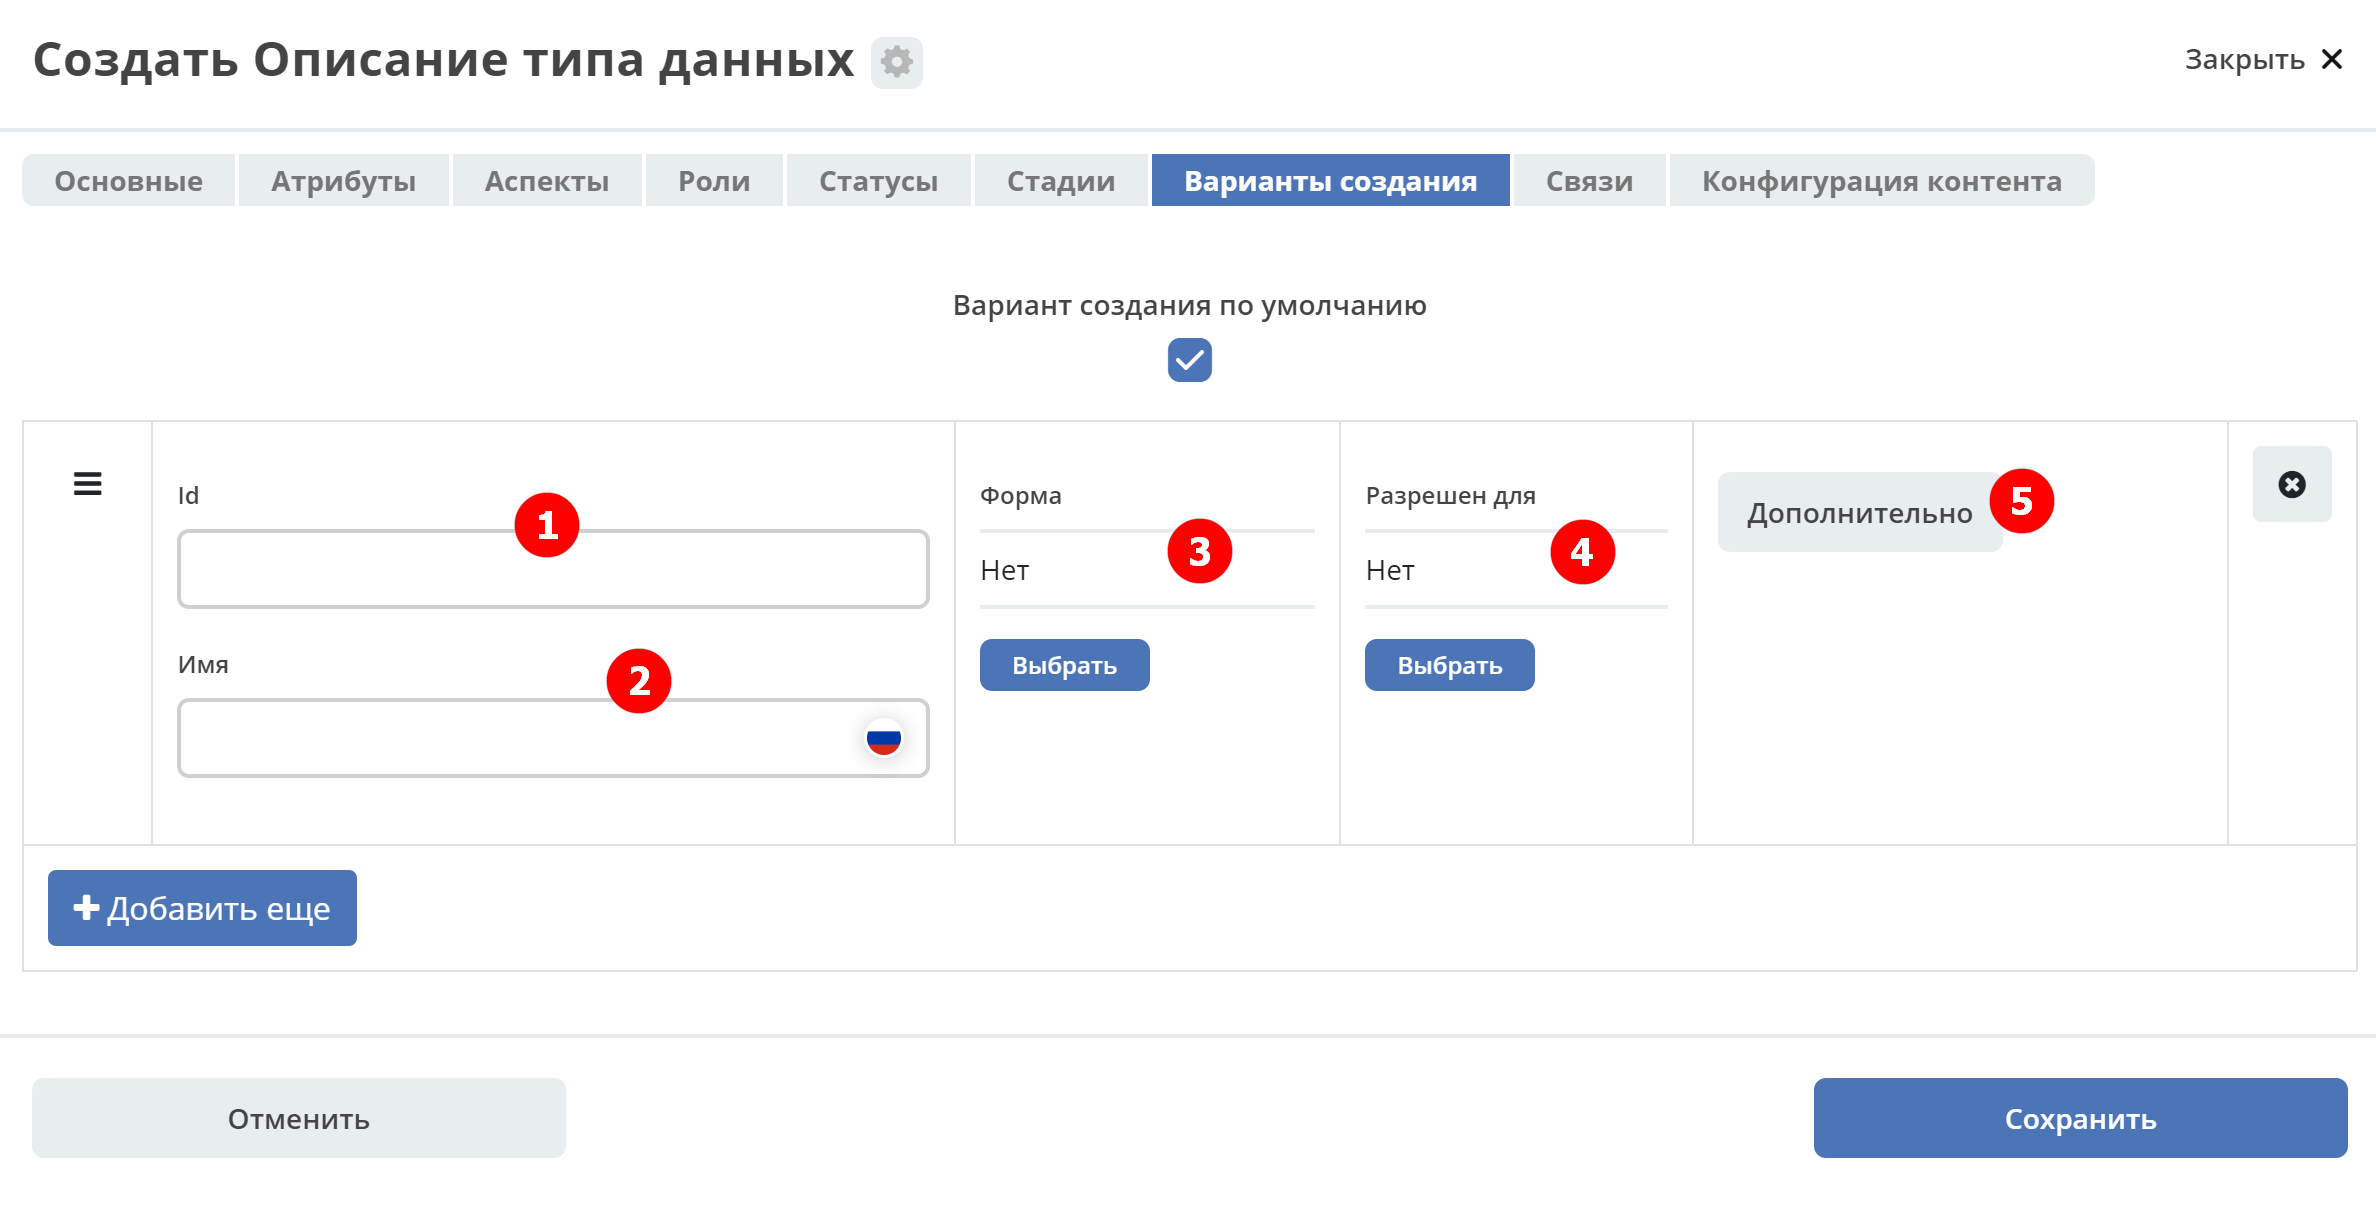
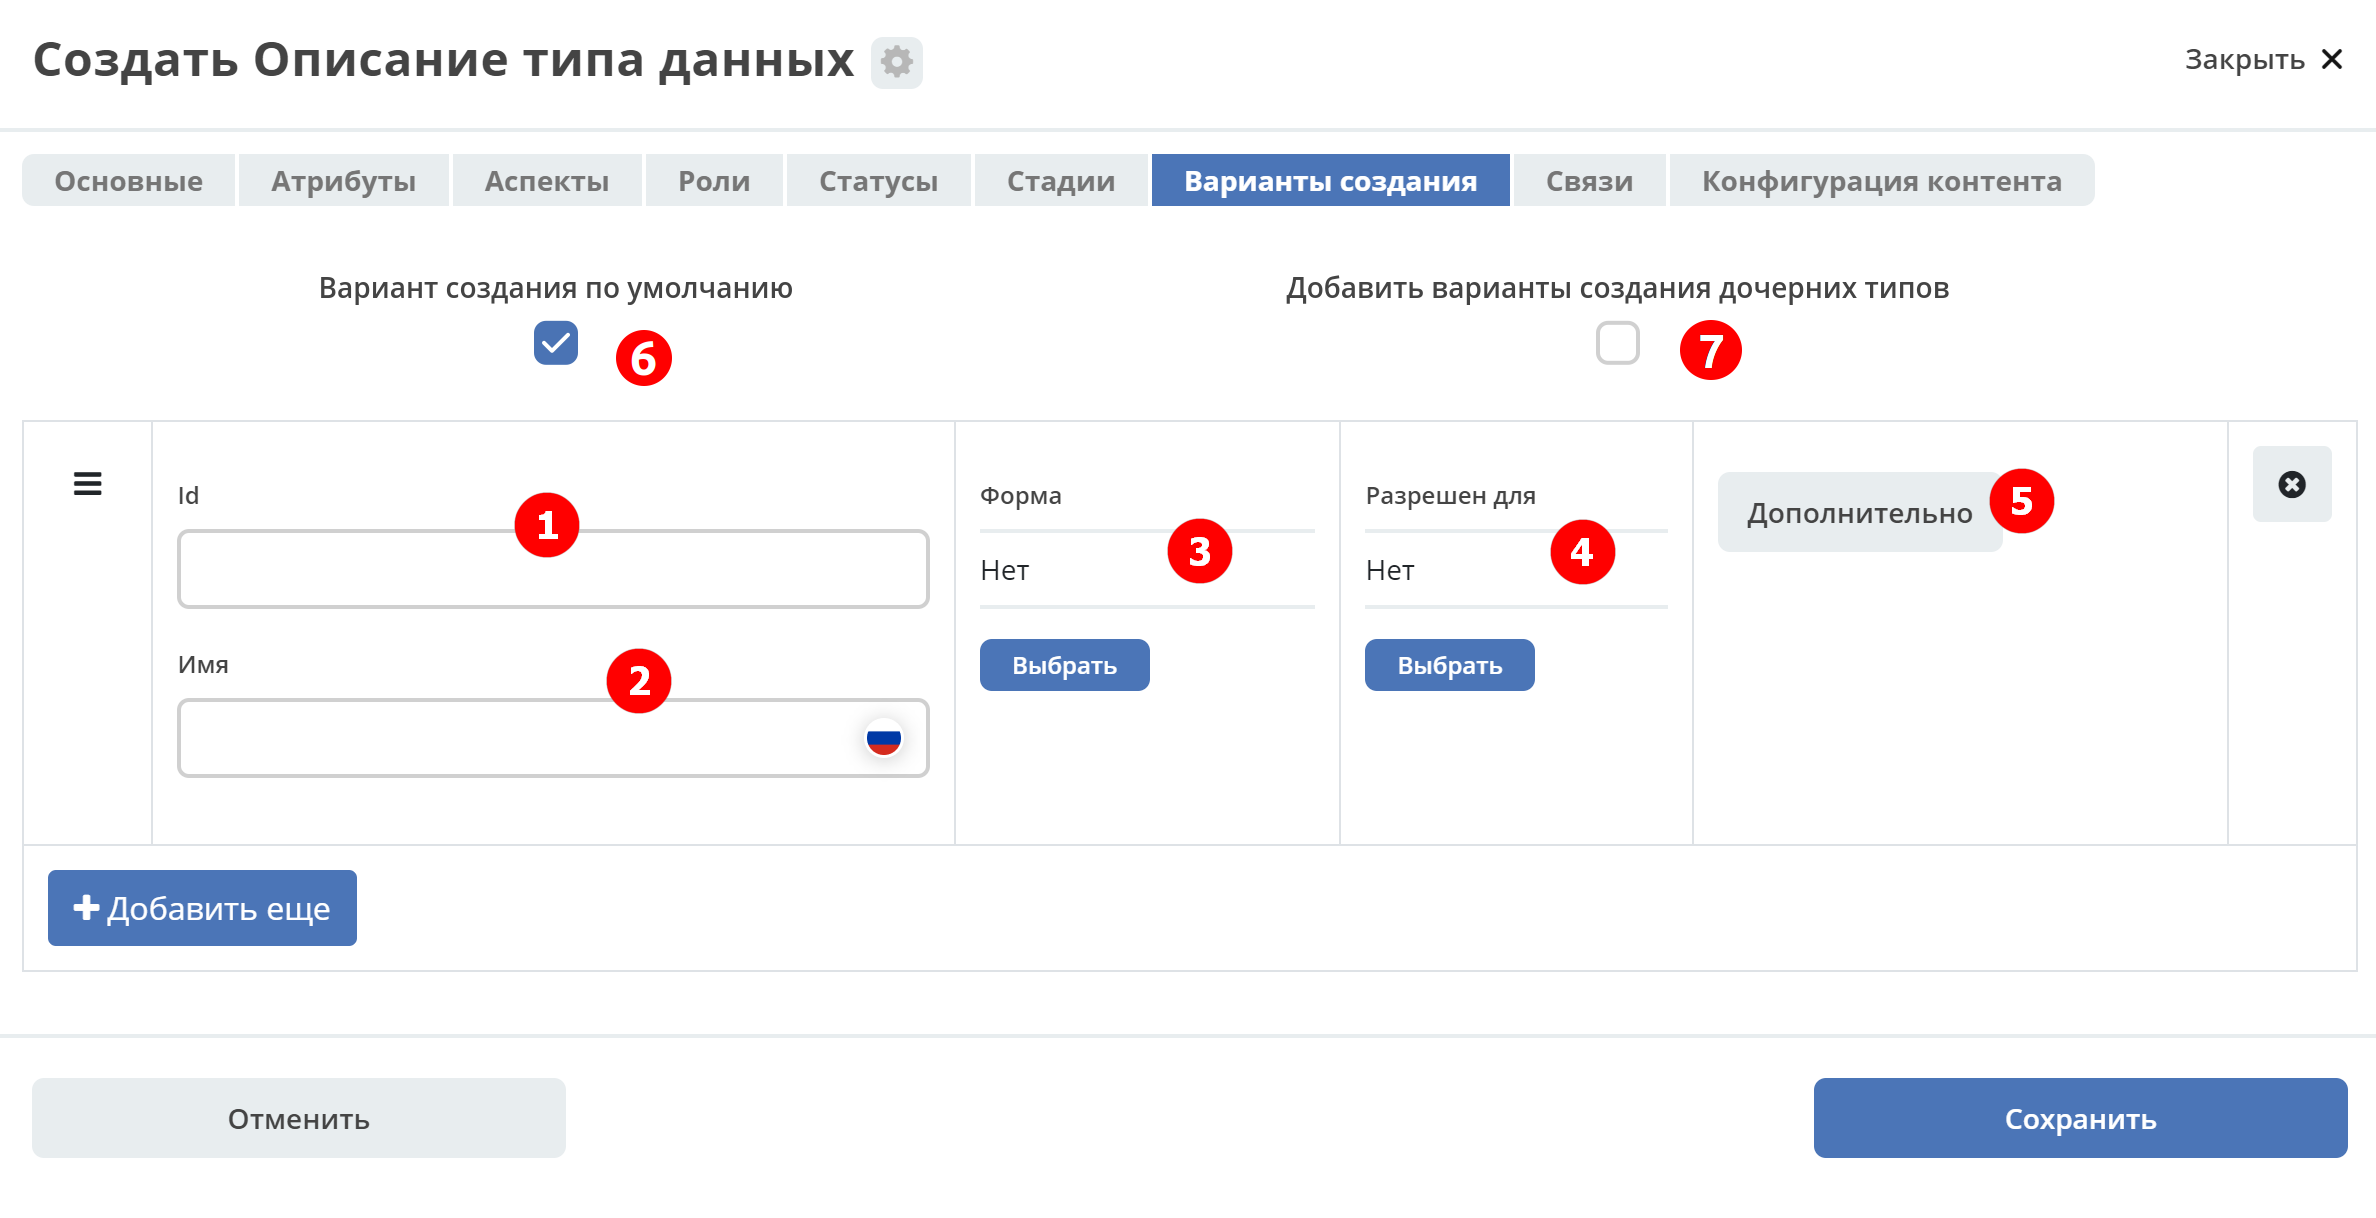
ECOSCOM-5008 - add info about createVariantsForChildTypes flag

Changed region(s): [[0.4049, 0.2184, 0.8098, 0.312], [0.1246, 0.2184, 0.3426, 0.312]]

diff --git a/docs/settings_kb/Типы_данных.rst b/docs/settings_kb/Типы_данных.rst
@@ -872,6 +872,14 @@
         - **Дополнительно**
         - дополнительные настройки.
         - 
+      * - 6
+        - **Вариант создания по умолчанию**
+        - Нужно или нет автоматически сгенерировать вариант создания для типа
+        - 
+      * - 7
+        - **Добавить варианты создания дочерних типов**
+        - Нужно или нет в списке вариантов создания текущего типа отображать варианты создания дочерних типов
+        - 
 
 
 .. image:: _static/data_types/create_full.png
